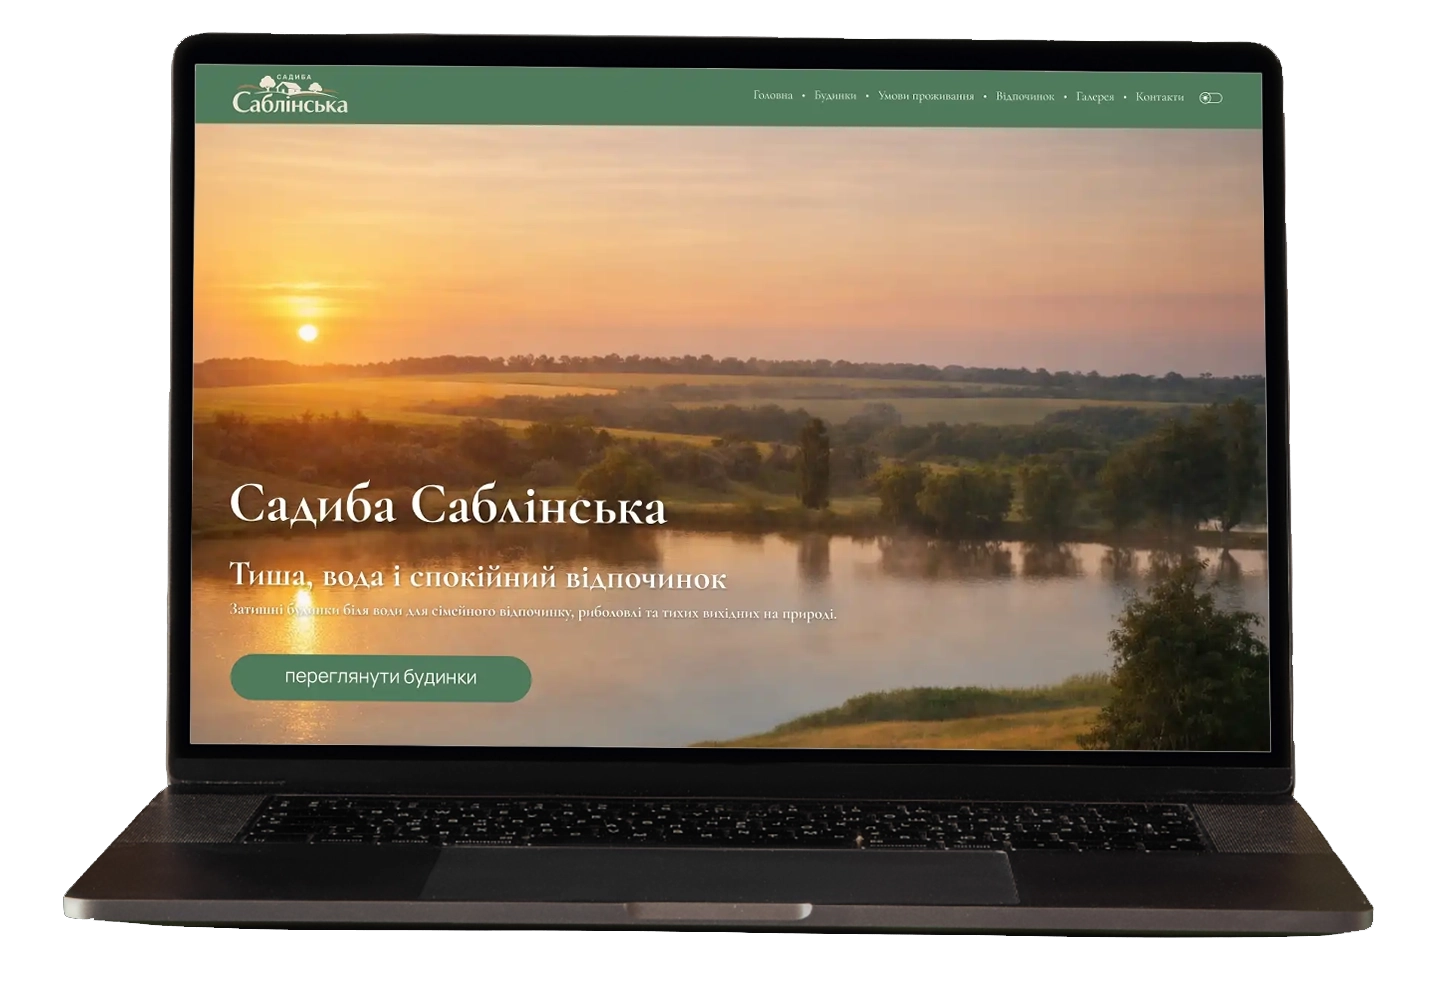
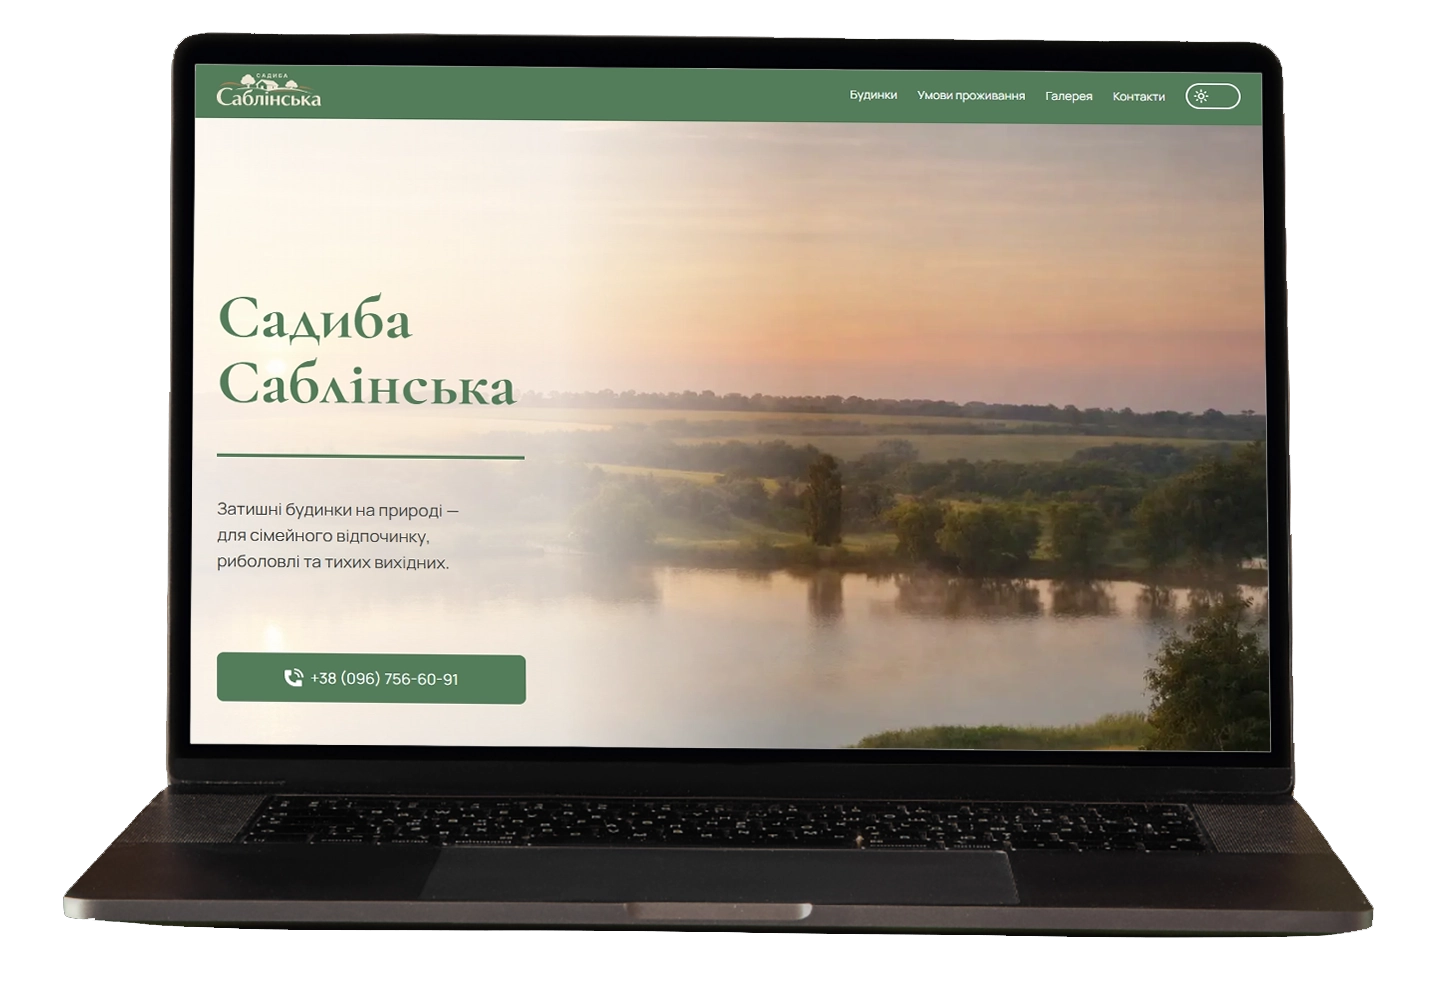
update rental house project images and live demo URL

diff --git a/src/data/projects.ts b/src/data/projects.ts
@@ -11,8 +11,7 @@ export const projects: Project[] = [
       'WhatsApp booking flow',
       'Order summary logic',
     ],
-    liveDemoUrl:
-      'https://pure-soft-git-feature-dark-mode-i18n-alexdroffs-projects.vercel.app/',
+    liveDemoUrl: 'https://pure-soft-six.vercel.app/',
     imageFolder: 'cleaning',
     cardImage: '/projects cards/cleaning.webp',
     caseStudy: {
@@ -40,7 +39,7 @@ export const projects: Project[] = [
         problem:
           'The client had no website and no structured way to present services or accept orders. Requests were handled manually through calls and messaging apps, without a clear flow.',
         solution:
-          "I designed and built a service-based website with a simple ordering flow. Users can browse services, view details in modals, and add them to an order. The system generates a pre-filled WhatsApp message with selected services and total price, removing the need for a backend.",
+          'I designed and built a service-based website with a simple ordering flow. Users can browse services, view details in modals, and add them to an order. The system generates a pre-filled WhatsApp message with selected services and total price, removing the need for a backend.',
         result:
           'The result is a fast, clear website that helps the client receive structured service requests directly via WhatsApp.',
       },
@@ -60,13 +59,15 @@ export const projects: Project[] = [
       gallery: [
         {
           title: 'Hero',
-          description: 'Main project visual showing the primary landing header and value proposition.',
+          description:
+            'Main project visual showing the primary landing header and value proposition.',
           layout: 'fullWidth',
           images: [{ index: 3, label: 'Main hero screen', kind: 'default' }],
         },
         {
           title: 'Responsive Design',
-          description: 'Fully responsive layout optimized for desktop and mobile use.',
+          description:
+            'Fully responsive layout optimized for desktop and mobile use.',
           layout: 'responsive',
           images: [
             { index: 1, label: 'Desktop viewport', kind: 'desktop' },
@@ -166,7 +167,7 @@ export const projects: Project[] = [
       'House detail pages',
       'Direct call booking',
     ],
-    liveDemoUrl: 'https://usadba.kr.ua/ua/',
+    liveDemoUrl: 'https://sablino.vercel.app/',
     imageFolder: 'rental-house',
     cardImage: '/projects cards/rental house.webp',
     caseStudy: {
@@ -194,7 +195,7 @@ export const projects: Project[] = [
         problem:
           'The client had an outdated website that did not reflect the quality of the property or clearly present the offer. There was no simple way for users to contact the owner.',
         solution:
-          "I designed and built a website focused on atmosphere and clarity. The structure highlights the property and houses, guiding users through the content. Instead of forms, the booking flow is simplified to a direct call.",
+          'I designed and built a website focused on atmosphere and clarity. The structure highlights the property and houses, guiding users through the content. Instead of forms, the booking flow is simplified to a direct call.',
         result:
           'The new website improves presentation and makes it easier for users to understand the offer and contact the owner.',
       },
@@ -213,69 +214,95 @@ export const projects: Project[] = [
         {
           title: 'Hero',
           description:
-            'Main project visual with the full desktop hero scene and sunset atmosphere.',
+            'Main project visual with the full desktop hero scene, direct call CTA, and calm countryside atmosphere.',
           layout: 'fullWidth',
           images: [{ index: 3, label: 'Main landing hero', kind: 'default' }],
         },
         {
           title: 'Responsive Design',
           description:
-            'Desktop and mobile viewport presentation shown together as one responsive composition.',
+            'Desktop and mobile viewport presentation showing how the landing page adapts across devices.',
           layout: 'responsive',
           images: [
-            { index: 1, label: 'Desktop and mobile viewport presentation', kind: 'desktop' },
-            { index: 2, label: 'Desktop and mobile viewport presentation', kind: 'mobile' },
+            {
+              index: 1,
+              label: 'Desktop viewport presentation',
+              kind: 'desktop',
+            },
+            {
+              index: 2,
+              label: 'Mobile viewport presentation',
+              kind: 'mobile',
+            },
           ],
         },
         {
           title: 'About / Concept',
           description:
-            'Content storytelling block that explains the place, mood, and concept positioning.',
+            'Content storytelling block that explains the place, mood, and positioning of the countryside retreat.',
           layout: 'fullWidth',
           images: [
-            { index: 4, label: 'Project concept and atmosphere', kind: 'default' },
+            {
+              index: 4,
+              label: 'About section with atmosphere and concept',
+              kind: 'default',
+            },
           ],
         },
         {
           title: 'Houses Preview',
           description:
-            'Accommodation preview section with house cards, structure, and clear booking CTAs.',
+            'Accommodation preview section with house cards, pricing, and clear navigation to detailed pages.',
           layout: 'fullWidth',
           images: [
             { index: 5, label: 'Accommodation preview cards', kind: 'default' },
           ],
         },
         {
-          title: 'Lifestyle / Experience',
+          title: 'Gallery',
           description:
-            'Section focused on emotional value: nature, relaxation, and leisure activities.',
+            'Photo gallery section designed to show the property, houses, and surrounding atmosphere.',
           layout: 'fullWidth',
           images: [
-            { index: 6, label: 'Lifestyle and relaxation content section', kind: 'default' },
+            {
+              index: 6,
+              label: 'Photo gallery section',
+              kind: 'default',
+            },
           ],
         },
         {
-          title: 'Gallery',
+          title: 'CTA Section',
           description:
-            'Visual atmosphere and photo presentation block for browsing location imagery.',
+            'Conversion-focused section that gives the visitor a final clear action: call the estate and move from browsing to direct contact.',
           layout: 'fullWidth',
-          images: [{ index: 7, label: 'Photo gallery section', kind: 'default' }],
+          images: [
+            {
+              index: 7,
+              label: 'Final call-to-action section',
+              kind: 'default',
+            },
+          ],
         },
         {
           title: 'Contact / Location',
           description:
-            'Final trust and conversion block with contact details and map context.',
+            'Final trust and conversion block with contact details, phone numbers, map, and location context.',
           layout: 'fullWidth',
-          images: [{ index: 8, label: 'Contact and location section', kind: 'default' }],
+          images: [
+            {
+              index: 8,
+              label: 'Contact and location section',
+              kind: 'default',
+            },
+          ],
         },
         {
           title: 'House Details',
           description:
-            'Detailed accommodation page with photos, description, pricing, and action path.',
+            'Detailed accommodation page with photos, characteristics, pricing, and direct action path.',
           layout: 'fullWidth',
-          images: [
-            { index: 9, label: 'Detailed house page', kind: 'default' },
-          ],
+          images: [{ index: 9, label: 'Detailed house page', kind: 'default' }],
         },
       ],
       cta: {
@@ -321,7 +348,7 @@ export const projects: Project[] = [
         problem:
           'Users needed a fast and intuitive way to browse cars, apply filters, and submit booking requests without friction.',
         solution:
-          "I built a frontend application based on a provided design, focusing on dynamic filtering and API integration. Users can browse cars, filter results, view details, and submit booking requests with validation.",
+          'I built a frontend application based on a provided design, focusing on dynamic filtering and API integration. Users can browse cars, filter results, view details, and submit booking requests with validation.',
         result:
           'The result is a functional application that demonstrates working with APIs, filtering logic, and real user interaction flows.',
       },
@@ -340,15 +367,13 @@ export const projects: Project[] = [
       gallery: [
         {
           title: 'Hero',
-          description:
-            'Hero section with the main landing visual.',
+          description: 'Hero section with the main landing visual.',
           layout: 'fullWidth',
           images: [{ index: 3, label: 'Hero section', kind: 'default' }],
         },
         {
           title: 'Responsive Design',
-          description:
-            'Desktop and mobile viewport presentation.',
+          description: 'Desktop and mobile viewport presentation.',
           layout: 'responsive',
           images: [
             { index: 1, label: 'Desktop view', kind: 'desktop' },
@@ -360,23 +385,23 @@ export const projects: Project[] = [
           description:
             'Catalog layout with integrated search and browsing experience.',
           layout: 'single',
-          images: [
-            { index: 4, label: 'Catalog overview', kind: 'default' },
-          ],
+          images: [{ index: 4, label: 'Catalog overview', kind: 'default' }],
         },
         {
           title: 'Filtering',
-          description:
-            'Filtering by brand, price, and mileage.',
+          description: 'Filtering by brand, price, and mileage.',
           layout: 'single',
           images: [
-            { index: 5, label: 'Filtering by brand, price, and mileage', kind: 'default' },
+            {
+              index: 5,
+              label: 'Filtering by brand, price, and mileage',
+              kind: 'default',
+            },
           ],
         },
         {
           title: 'Favorites / Selected State',
-          description:
-            'Selected and favorites state in the catalog.',
+          description: 'Selected and favorites state in the catalog.',
           layout: 'single',
           images: [
             { index: 8, label: 'Selected / favorites state', kind: 'default' },
@@ -384,17 +409,13 @@ export const projects: Project[] = [
         },
         {
           title: 'Detail Variant',
-          description:
-            'Clean vehicle detail page variant.',
+          description: 'Clean vehicle detail page variant.',
           layout: 'single',
-          images: [
-            { index: 6, label: 'Detail page variant', kind: 'default' },
-          ],
+          images: [{ index: 6, label: 'Detail page variant', kind: 'default' }],
         },
         {
           title: 'Booking Request Flow',
-          description:
-            'Submitting a rental request from the detail page.',
+          description: 'Submitting a rental request from the detail page.',
           layout: 'single',
           images: [
             { index: 7, label: 'Booking request flow', kind: 'default' },
@@ -450,7 +471,7 @@ export const projects: Project[] = [
         problem:
           'The project required a fullstack platform where users can register, publish stories, manage profiles, and interact with content.',
         solution:
-          "As part of a 12-person team, I contributed to both frontend and backend development. I built key UI components, including headers, modals, story cards, and profile editing flows, and worked with shared data structures on the backend.",
+          'As part of a 12-person team, I contributed to both frontend and backend development. I built key UI components, including headers, modals, story cards, and profile editing flows, and worked with shared data structures on the backend.',
         result:
           'The platform supports authentication, publishing, and user interaction, demonstrating real-world fullstack architecture and teamwork.',
       },
@@ -481,16 +502,16 @@ export const projects: Project[] = [
           description:
             'Authenticated landing state showing how navigation and available actions expand after login.',
           layout: 'single',
-          images: [{ index: 5, label: 'Hero - Authenticated State', kind: 'default' }],
+          images: [
+            { index: 5, label: 'Hero - Authenticated State', kind: 'default' },
+          ],
         },
         {
           title: 'Authentication',
           description:
             'Login flow providing access to personalized features, profile actions, and story publishing.',
           layout: 'single',
-          images: [
-            { index: 4, label: 'Authentication', kind: 'default' },
-          ],
+          images: [{ index: 4, label: 'Authentication', kind: 'default' }],
         },
         {
           title: 'Responsive Design',
@@ -516,36 +537,28 @@ export const projects: Project[] = [
           description:
             'Community directory presenting authors and making profile exploration easier.',
           layout: 'single',
-          images: [
-            { index: 7, label: 'Travelers', kind: 'default' },
-          ],
+          images: [{ index: 7, label: 'Travelers', kind: 'default' }],
         },
         {
           title: 'User Profile',
           description:
             'Personal user area for managing saved stories and reviewing individual activity.',
           layout: 'single',
-          images: [
-            { index: 8, label: 'User Profile', kind: 'default' },
-          ],
+          images: [{ index: 8, label: 'User Profile', kind: 'default' }],
         },
         {
           title: 'Story Creation',
           description:
             'Publishing flow for creating and sharing new travel stories.',
           layout: 'single',
-          images: [
-            { index: 9, label: 'Story Creation', kind: 'default' },
-            ],
+          images: [{ index: 9, label: 'Story Creation', kind: 'default' }],
         },
         {
           title: 'Story Detail',
           description:
             'Full article view with author metadata, category context, and reading-focused layout.',
           layout: 'single',
-          images: [
-            { index: 10, label: 'Story Detail', kind: 'default' },
-          ],
+          images: [{ index: 10, label: 'Story Detail', kind: 'default' }],
         },
       ],
       cta: {
@@ -557,5 +570,3 @@ export const projects: Project[] = [
     },
   },
 ];
-
-
